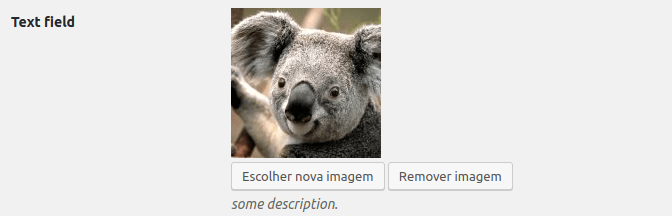
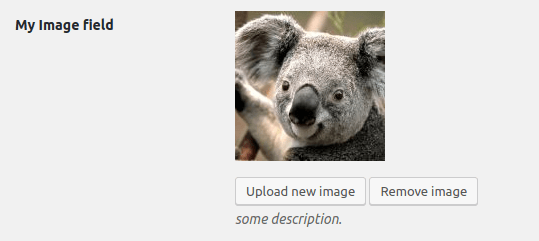
updated image field docs

Changed region(s): [[0.3265, 0.0278, 0.8905, 0.9722], [0.0, 0.0556, 0.2078, 0.1389]]

diff --git a/docs/field-types.md b/docs/field-types.md
@@ -12,6 +12,7 @@
 - [HTML](#html)
 - [Color](#color)
 - [Content](#content)
+- [Image](#content)
 
 ### Text
 
@@ -328,10 +329,9 @@ Image uploader.
 $the_page->add_field( [
     //'tab' => 'default',
 
-    'type'    => 'content',
-    'id'      => 'content_field',
+    'type'    => 'image',
+    'id'      => 'image_field',
     'desc'    => 'some description.',
-    'default' => '',
 
     //'wrapper_class' => '',
 
